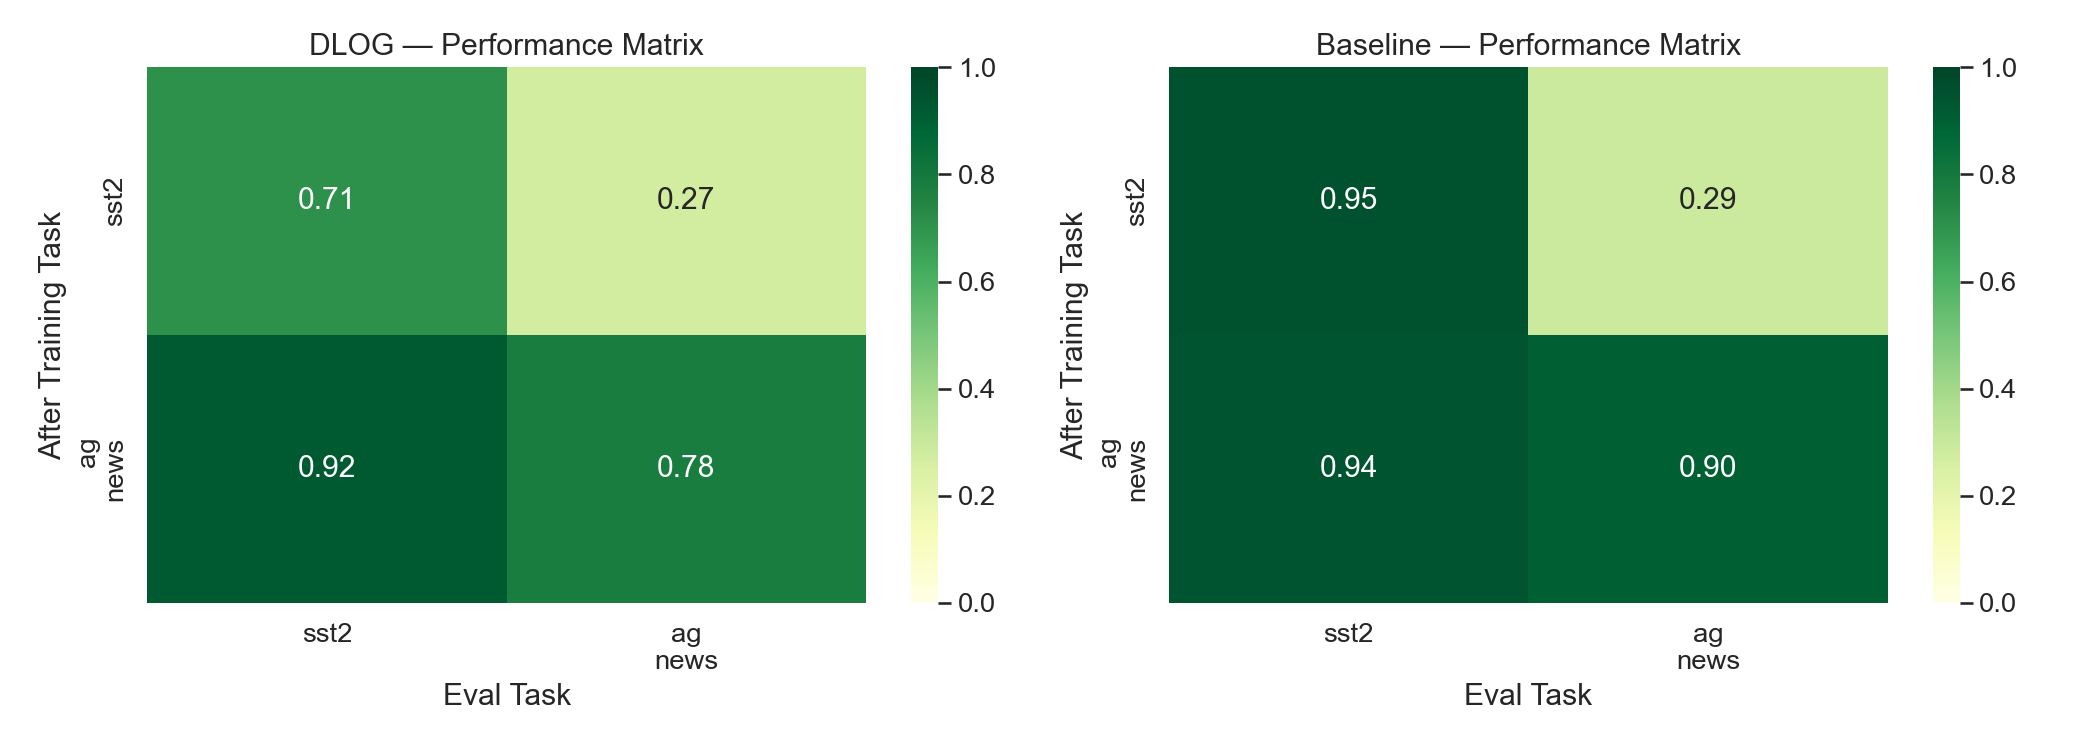
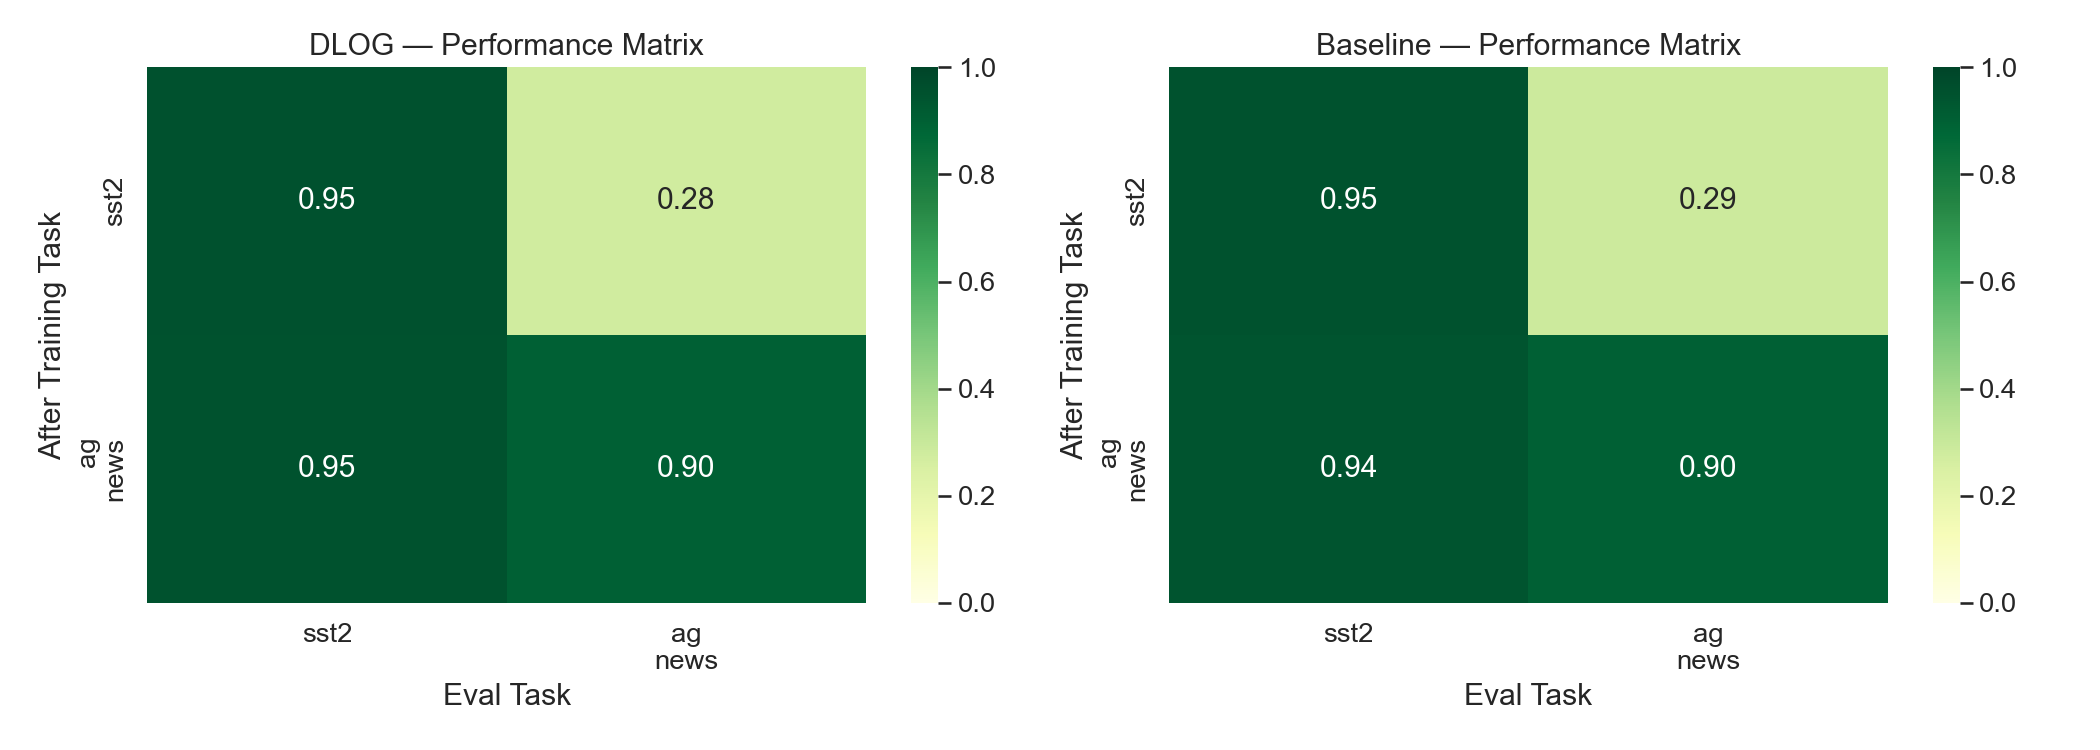
Enhance DLOG metrics reporting by adding Backward Transfer (BWT) and Learning Accuracy (LA) calculations; update performance metrics in results and JSON files; improve evaluation process in trainer and run_experiment scripts.

Changed region(s): [[0.0619, 0.092, 0.4333, 0.828], [0.3095, 0.2453, 0.3405, 0.276], [0.1548, 0.6133, 0.1857, 0.644]]

diff --git a/run_experiment.py b/run_experiment.py
@@ -317,6 +317,8 @@ def run_experiment(config: DLOGConfig, smoke_test: bool = False):
         print(f"    Final Performance (FP): {res['cl_metrics']['Final Performance (FP)']:.4f}")
         print(f"    Average Performance (AP): {res['cl_metrics']['Average Performance (AP)']:.4f}")
         print(f"    Forgetting (FT): {res['cl_metrics']['Forgetting (FT)']:.4f}")
+        print(f"    Backward Transfer (BWT): {res['cl_metrics']['Backward Transfer (BWT)']:.4f}")
+        print(f"    Learning Accuracy (LA): {res['cl_metrics']['Learning Accuracy (LA)']:.4f}")
         if "efficiency" in res:
             print(f"    Wall-clock: {res['efficiency']['total_time_sec']}s")
             print(f"    Forward passes: {res['efficiency']['forward_passes']}")
@@ -355,6 +357,12 @@ def run_experiment(config: DLOGConfig, smoke_test: bool = False):
         f.write(f"{'Forgetting (FT)':<30} "
                 f"{dlog_results['cl_metrics']['Forgetting (FT)']:>12.4f} "
                 f"{baseline_results['cl_metrics']['Forgetting (FT)']:>12.4f}\n")
+        f.write(f"{'Backward Transfer (BWT)':<30} "
+                f"{dlog_results['cl_metrics']['Backward Transfer (BWT)']:>12.4f} "
+                f"{baseline_results['cl_metrics']['Backward Transfer (BWT)']:>12.4f}\n")
+        f.write(f"{'Learning Accuracy (LA)':<30} "
+                f"{dlog_results['cl_metrics']['Learning Accuracy (LA)']:>12.4f} "
+                f"{baseline_results['cl_metrics']['Learning Accuracy (LA)']:>12.4f}\n")
         f.write(f"{'Wall-clock (s)':<30} "
                 f"{dlog_results['efficiency']['total_time_sec']:>12} "
                 f"{baseline_results['efficiency']['total_time_sec']:>12}\n")

diff --git a/trainer.py b/trainer.py
@@ -72,6 +72,7 @@ class DLOGTrainer:
 
         # Metrics
         self.cl_metrics = CLMetricsTracker(config.task_order)
+        self.cl_metrics_premerge = CLMetricsTracker(config.task_order)
         self.grad_tracker = GradientConflictTracker()
         self.efficiency = EfficiencyTracker()
 
@@ -102,7 +103,17 @@ class DLOGTrainer:
                 max_steps=max_steps,
             )
 
-            # Consolidate Fast → Slow and reset Fast so evaluation reflects deployed mode.
+            # Evaluate before consolidation (training-time mode: base + slow + fast).
+            print(f"\n  Evaluating after task {task_name} (pre-merge: base+slow+fast)...")
+            for eval_idx, eval_name in enumerate(self.config.task_order):
+                acc = evaluate_accuracy(
+                    self.model, eval_loaders[eval_name],
+                    self.tokenizer, device=self.device,
+                )
+                self.cl_metrics_premerge.record(task_idx, eval_idx, acc)
+                print(f"    {eval_name}: {acc:.4f}")
+
+            # Consolidate Fast → Slow and reset Fast so deployed evaluation uses base + slow.
             self.model.consolidate_after_task()
             print(f"  Consolidated Fast → Slow for task {task_name}. Fast LoRA reset for next task.")
 
@@ -329,6 +340,7 @@ class DLOGTrainer:
                 "ema_decay": self.config.ema_decay,
             },
             "cl_metrics": self.cl_metrics.summary(),
+            "cl_metrics_premerge": self.cl_metrics_premerge.summary(),
             "efficiency": self.efficiency.summary(),
             "gradient_conflict": self.grad_tracker.history,
             "subspace_overlap": {

diff --git a/dlog_model.py b/dlog_model.py
@@ -153,10 +153,10 @@ class DLOGModel(nn.Module):
     @torch.no_grad()
     def consolidate_after_task(self):
         """
-        Called at the END of each task (after evaluation).
+        Called at the end of each task between training phases.
 
-        Accumulate the knowledge from Fast LoRA into Slow LoRA using Newton-Schulz
-        iteration to prevent computation bottlenecks associated with SVD.
+        Merge Slow+Fast into a rank-r Slow adapter using an SVD rank-r approximation
+        on the small core matrix M (size 2r x 2r).
         """
         for layer in self.get_dual_lora_layers():
             dtype = layer.A_slow.dtype
@@ -178,15 +178,16 @@ class DLOGModel(nn.Module):
             # Compute the core mapping matrix
             M = R_B @ R_A.T
 
-            # Apply the Newton-Schulz function
-            Orth_M = newton_schulz_orthogonalize(M, steps=5)
-
-            # Since we need to reduce back to rank r, slice top r principal components
+            # Best rank-r approximation of the small core using SVD.
+            U, S, Vh = torch.linalg.svd(M, full_matrices=False)
             r = layer.rank
+            U_r = U[:, :r]
+            S_r = S[:r]
+            Vh_r = Vh[:r, :]
 
-            # Reconstruct the updated Slow LoRA weights
-            B_s_new = Q_B @ Orth_M[:, :r]
-            A_s_new = Orth_M[:r, :] @ Q_A.T
+            sigma_sqrt = torch.diag(torch.sqrt(S_r))
+            B_s_new = Q_B @ U_r @ sigma_sqrt
+            A_s_new = sigma_sqrt @ Vh_r @ Q_A.T
 
             # Update Weights In-Place
             layer.A_slow.data.copy_(A_s_new.to(dtype))

diff --git a/analyze_results.py b/analyze_results.py
@@ -29,12 +29,27 @@ print(f"--- Analyzing results for model: {args.model} ---\n")
 print("DLOG Performance Matrix:")
 print(dlog["cl_metrics"]["Performance Matrix"])
 print(f"FP: {dlog['cl_metrics']['Final Performance (FP)']}")
+print(f"AP: {dlog['cl_metrics']['Average Performance (AP)']}")
 print(f"FT: {dlog['cl_metrics']['Forgetting (FT)']}")
+print(f"BWT: {dlog['cl_metrics']['Backward Transfer (BWT)']}")
+print(f"LA: {dlog['cl_metrics']['Learning Accuracy (LA)']}")
+
+if "cl_metrics_premerge" in dlog:
+    print("\nDLOG Pre-Merge Performance Matrix (base+slow+fast):")
+    print(dlog["cl_metrics_premerge"]["Performance Matrix"])
+    print(f"FP: {dlog['cl_metrics_premerge']['Final Performance (FP)']}")
+    print(f"AP: {dlog['cl_metrics_premerge']['Average Performance (AP)']}")
+    print(f"FT: {dlog['cl_metrics_premerge']['Forgetting (FT)']}")
+    print(f"BWT: {dlog['cl_metrics_premerge']['Backward Transfer (BWT)']}")
+    print(f"LA: {dlog['cl_metrics_premerge']['Learning Accuracy (LA)']}")
 
 print("\nBaseline Performance Matrix:")
 print(baseline["cl_metrics"]["Performance Matrix"])
 print(f"FP: {baseline['cl_metrics']['Final Performance (FP)']}")
+print(f"AP: {baseline['cl_metrics']['Average Performance (AP)']}")
 print(f"FT: {baseline['cl_metrics']['Forgetting (FT)']}")
+print(f"BWT: {baseline['cl_metrics']['Backward Transfer (BWT)']}")
+print(f"LA: {baseline['cl_metrics']['Learning Accuracy (LA)']}")
 
 print("\n" + "="*60)
 print("Training Loss Progression (DLOG):")

diff --git a/metrics.py b/metrics.py
@@ -60,11 +60,29 @@ class CLMetricsTracker:
             fgt.append(best - final)
         return float(np.mean(fgt))
 
+    def backward_transfer(self) -> float:
+        """
+        BWT = (1/(T-1)) Σ_{j=0..T-2} (R[T-1, j] - R[j, j]).
+        Positive means the final model improved older tasks vs when they were first learned.
+        """
+        if self.n_tasks <= 1:
+            return 0.0
+        vals = []
+        for j in range(self.n_tasks - 1):
+            vals.append(self.R[-1, j] - self.R[j, j])
+        return float(np.mean(vals))
+
+    def learning_accuracy(self) -> float:
+        """LA = (1/T) Σ_i R[i, i]."""
+        return float(np.mean(np.diag(self.R)))
+
     def summary(self) -> Dict:
         return {
             "Final Performance (FP)": self.final_performance(),
             "Average Performance (AP)": self.average_performance(),
             "Forgetting (FT)": self.forgetting(),
+            "Backward Transfer (BWT)": self.backward_transfer(),
+            "Learning Accuracy (LA)": self.learning_accuracy(),
             "Performance Matrix": self.R.tolist(),
         }
 
